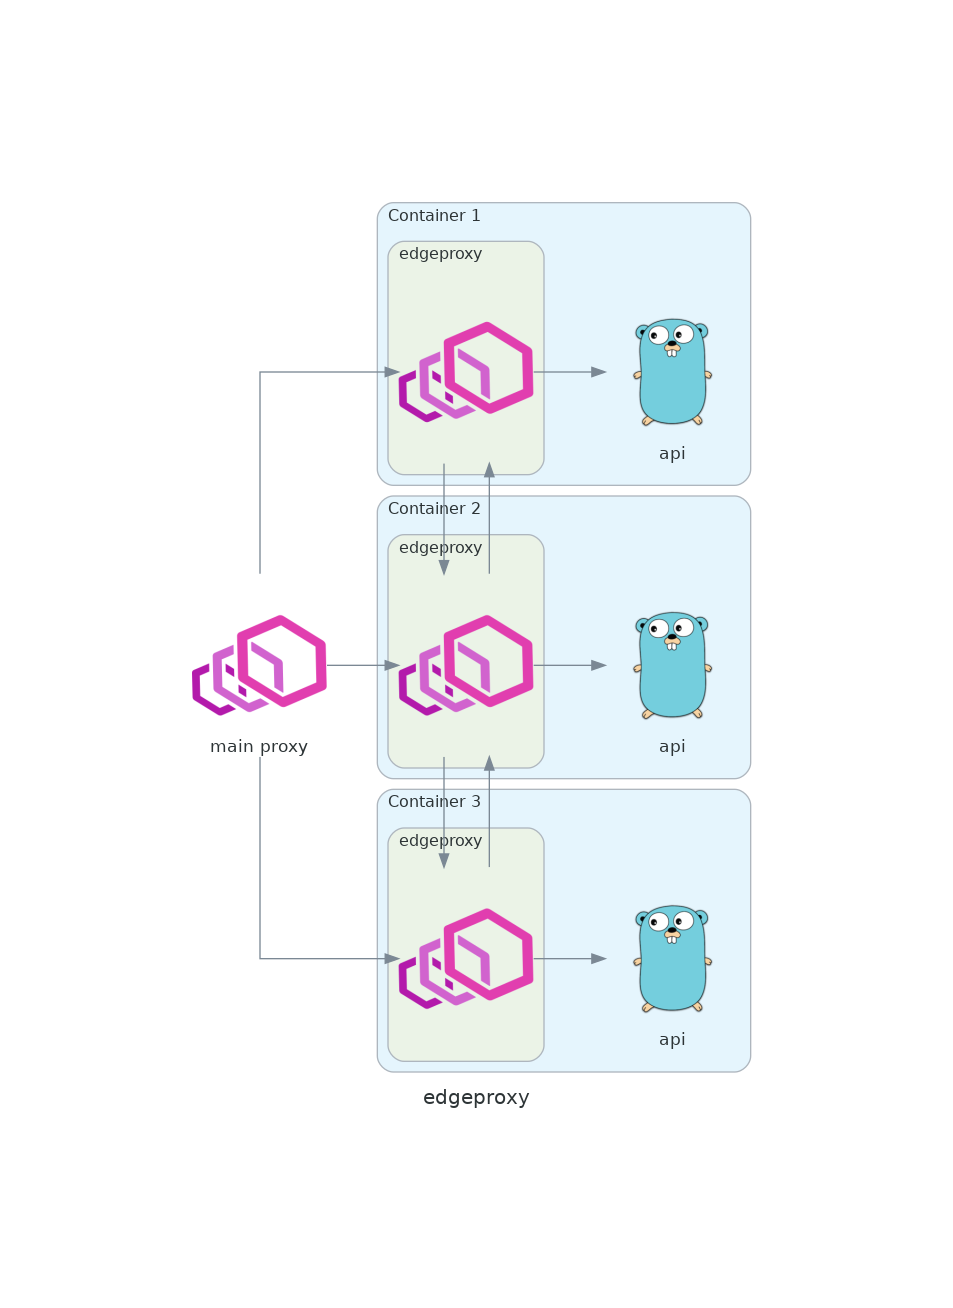
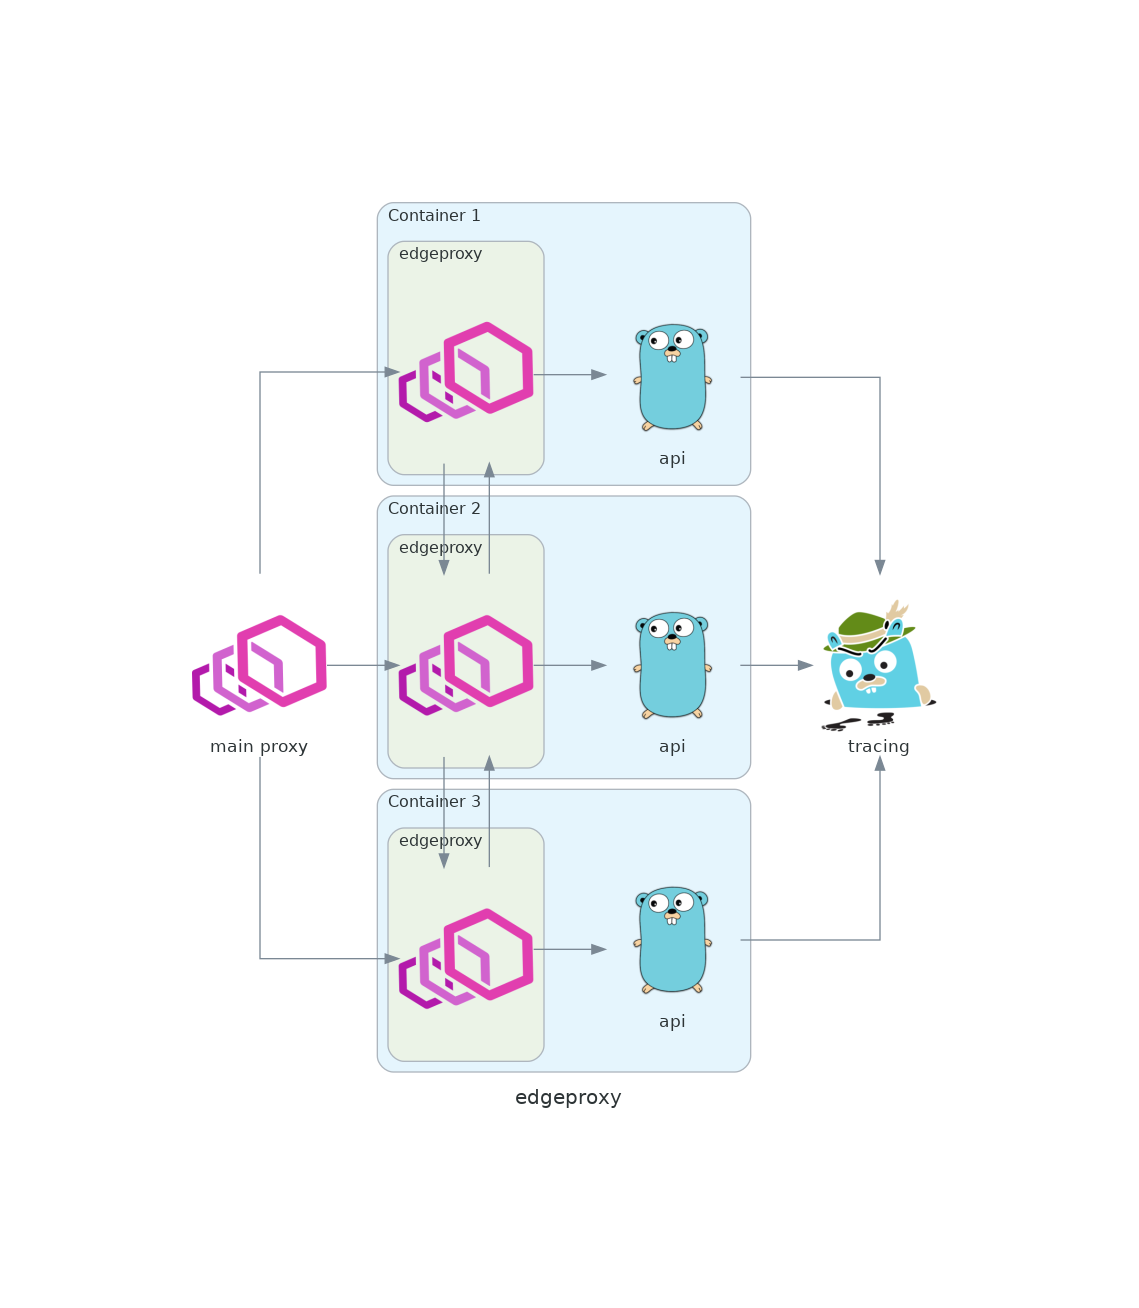
Add Jaeger tracing

Changed region(s): [[0.1522, 0.1529, 0.8216, 0.8257], [0.213, 0.3058, 0.2434, 0.4281], [0.4565, 0.8257, 0.5477, 0.8563]]

diff --git a/app/tracing.go b/app/tracing.go
@@ -1,0 +1,95 @@
+package app
+
+import (
+	"fmt"
+	"os"
+	"time"
+
+	"github.com/labstack/echo/v4"
+	"github.com/opentracing/opentracing-go"
+	"github.com/uber/jaeger-client-go"
+	"github.com/uber/jaeger-client-go/config"
+)
+
+func (s *Server) InitTracing() error {
+	fmt.Println("Initializing tracing")
+	hostname, err := os.Hostname()
+	if err != nil {
+		return err
+	}
+
+	defcfg := config.Configuration{
+		ServiceName: hostname,
+		Sampler: &config.SamplerConfig{
+			Type:  "const",
+			Param: 1,
+		},
+		Reporter: &config.ReporterConfig{
+			LogSpans:            true,
+			BufferFlushInterval: 1 * time.Second,
+		},
+		Headers: (*jaeger.HeadersConfig).ApplyDefaults(&jaeger.HeadersConfig{}),
+	}
+	cfg, err := defcfg.FromEnv()
+	if err != nil {
+		return err
+	}
+
+	s.tracer, s.closer, err = cfg.NewTracer()
+	if err != nil {
+		return err
+	}
+
+	opentracing.SetGlobalTracer(s.tracer)
+
+	return nil
+}
+
+func (s *Server) TracingMiddleware(next echo.HandlerFunc) echo.HandlerFunc {
+	return func(c echo.Context) error {
+		var sp opentracing.Span
+		ctx, err := s.tracer.Extract(
+			opentracing.HTTPHeaders,
+			opentracing.HTTPHeadersCarrier(c.Request().Header),
+		)
+		if err != nil {
+			sp = s.tracer.StartSpan(c.Request().URL.Path)
+			sp.SetTag("tracing.error", err.Error())
+		} else {
+			sp = s.tracer.StartSpan(c.Request().URL.Path, opentracing.ChildOf(ctx))
+		}
+		defer sp.Finish()
+
+		sp.SetTag("http.client_ip", c.RealIP())
+		sp.SetTag("http.method", c.Request().Method)
+		sp.SetTag("http.url", c.Request().URL.Path)
+		sp.SetTag("http.headers", c.Request().Header)
+
+		reqSpan := c.Request().WithContext(opentracing.ContextWithSpan(c.Request().Context(), sp))
+		c.SetRequest(reqSpan)
+
+		s.tracer.Inject(
+			sp.Context(),
+			opentracing.HTTPHeaders,
+			opentracing.HTTPHeadersCarrier(c.Request().Header),
+		)
+
+		err = next(c)
+
+		sp.SetTag("http.status_code", c.Response().Status)
+		if err != nil {
+			sp.LogKV("error.message", err)
+			sp.SetTag("error", true)
+		}
+
+		return err
+	}
+}
+
+func CreateChildSpan(c echo.Context, name string) opentracing.Span {
+	span := opentracing.SpanFromContext(c.Request().Context())
+	return opentracing.StartSpan(
+		name,
+		opentracing.ChildOf(span.Context()),
+	)
+}

diff --git a/app/app.go b/app/app.go
@@ -8,10 +8,13 @@ import (
 
 	"github.com/labstack/echo/v4"
 	"github.com/labstack/echo/v4/middleware"
+	"github.com/opentracing/opentracing-go"
 )
 
 type Server struct {
-	Echo *echo.Echo
+	Echo   *echo.Echo
+	tracer opentracing.Tracer
+	closer io.Closer
 }
 
 func (s *Server) Init() error {
@@ -20,14 +23,28 @@ func (s *Server) Init() error {
 	s.Echo.Use(middleware.Logger())
 	s.Echo.Use(middleware.Recover())
 
+	err := s.InitTracing()
+	if err != nil {
+		return err
+	}
+	s.Echo.Use(s.TracingMiddleware)
+
 	s.Echo.GET("/health", func(c echo.Context) error {
+		sp := CreateChildSpan(c, "health")
+		defer sp.Finish()
+
 		return c.String(200, "OK")
 	})
 
 	group := s.Echo.Group("/v0")
 	group.GET("/who", func(c echo.Context) error {
+		sp := CreateChildSpan(c, "who")
+		defer sp.Finish()
+
 		hostname, err := os.Hostname()
 		if err != nil {
+			sp.SetTag("error", true)
+			sp.SetTag("error.message", err.Error())
 			return c.String(500, "error")
 		}
 		return c.String(200, hostname)
@@ -42,12 +59,18 @@ func (s *Server) Start() error {
 }
 
 func (s *Server) Stop() error {
+	s.closer.Close()
 	return s.Echo.Close()
 }
 
 func (s *Server) WhoRand(c echo.Context) error {
+	sp := CreateChildSpan(c, "who-rand")
+	defer sp.Finish()
+
 	hostname, err := os.Hostname()
 	if err != nil {
+		sp.SetTag("error", true)
+		sp.SetTag("error.message", err.Error())
 		return c.String(500, "error")
 	}
 
@@ -57,18 +80,29 @@ func (s *Server) WhoRand(c echo.Context) error {
 
 	req, err := http.NewRequest("GET", "http://localhost:8080/vr/who-rand", nil)
 	if err != nil {
+		sp.SetTag("error", true)
+		sp.SetTag("error.message", err.Error())
 		return c.String(500, "error")
 	}
+	s.tracer.Inject(
+		sp.Context(),
+		opentracing.HTTPHeaders,
+		opentracing.HTTPHeadersCarrier(req.Header),
+	)
 
 	client := &http.Client{}
 	resp, err := client.Do(req)
 	if err != nil {
+		sp.SetTag("error", true)
+		sp.SetTag("error.message", err.Error())
 		return c.String(500, "error")
 	}
 	defer resp.Body.Close()
 
 	host, err := io.ReadAll(resp.Body)
 	if err != nil {
+		sp.SetTag("error", true)
+		sp.SetTag("error.message", err.Error())
 		return c.String(500, "error")
 	}
 

diff --git a/docs/diagram.py b/docs/diagram.py
@@ -1,6 +1,7 @@
 from diagrams import Diagram, Cluster
 from diagrams.onprem.network import Envoy
 from diagrams.programming.language import Go
+from diagrams.onprem.tracing import Jaeger
 
 with Diagram("edgeproxy", show=False):
 
@@ -29,6 +30,11 @@ with Diagram("edgeproxy", show=False):
     proxy3 >> proxy2
     proxy2 >> proxy1
     # proxy1 >> proxy3
+
+    tracing = Jaeger("tracing")
+    server1 >> tracing
+    server2 >> tracing
+    server3 >> tracing
 
     proxy = Envoy("main proxy")
     proxy >> proxy1
